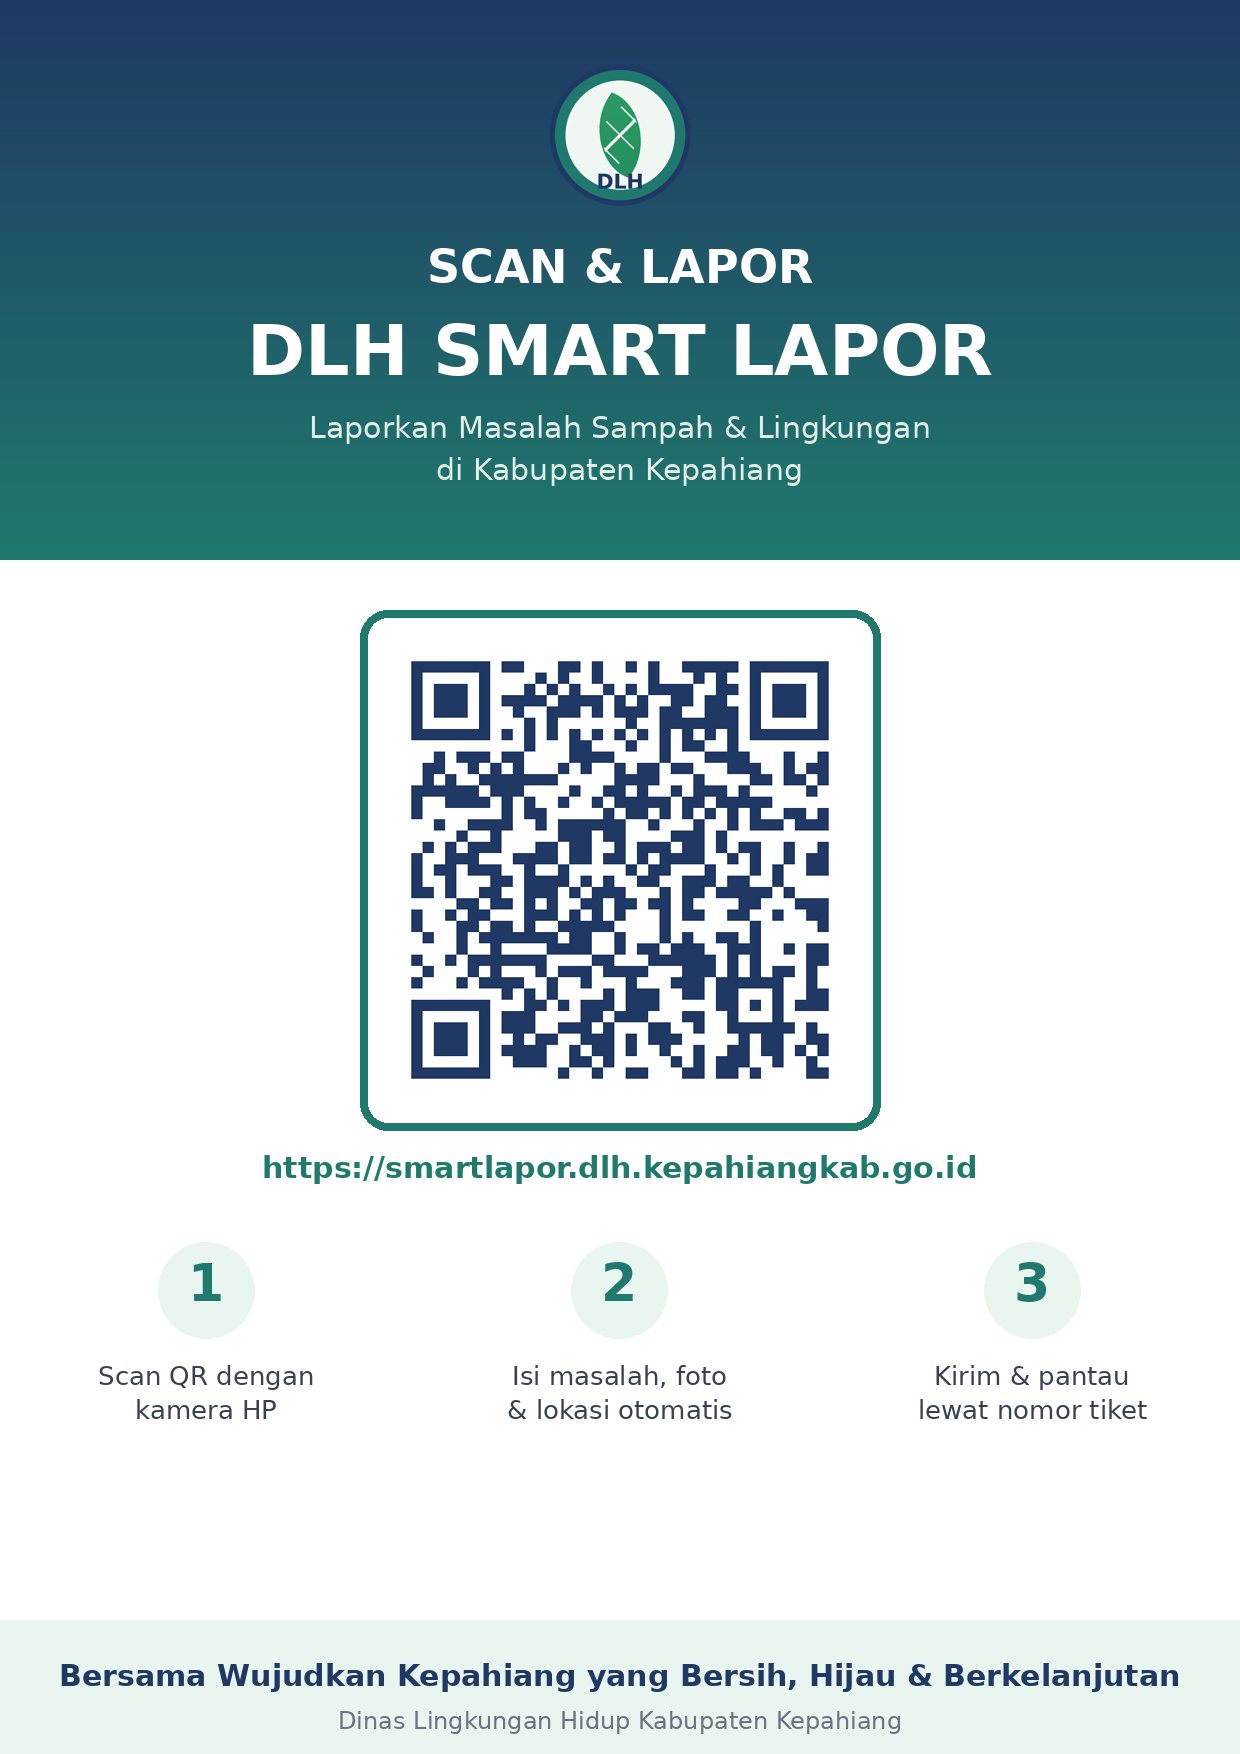
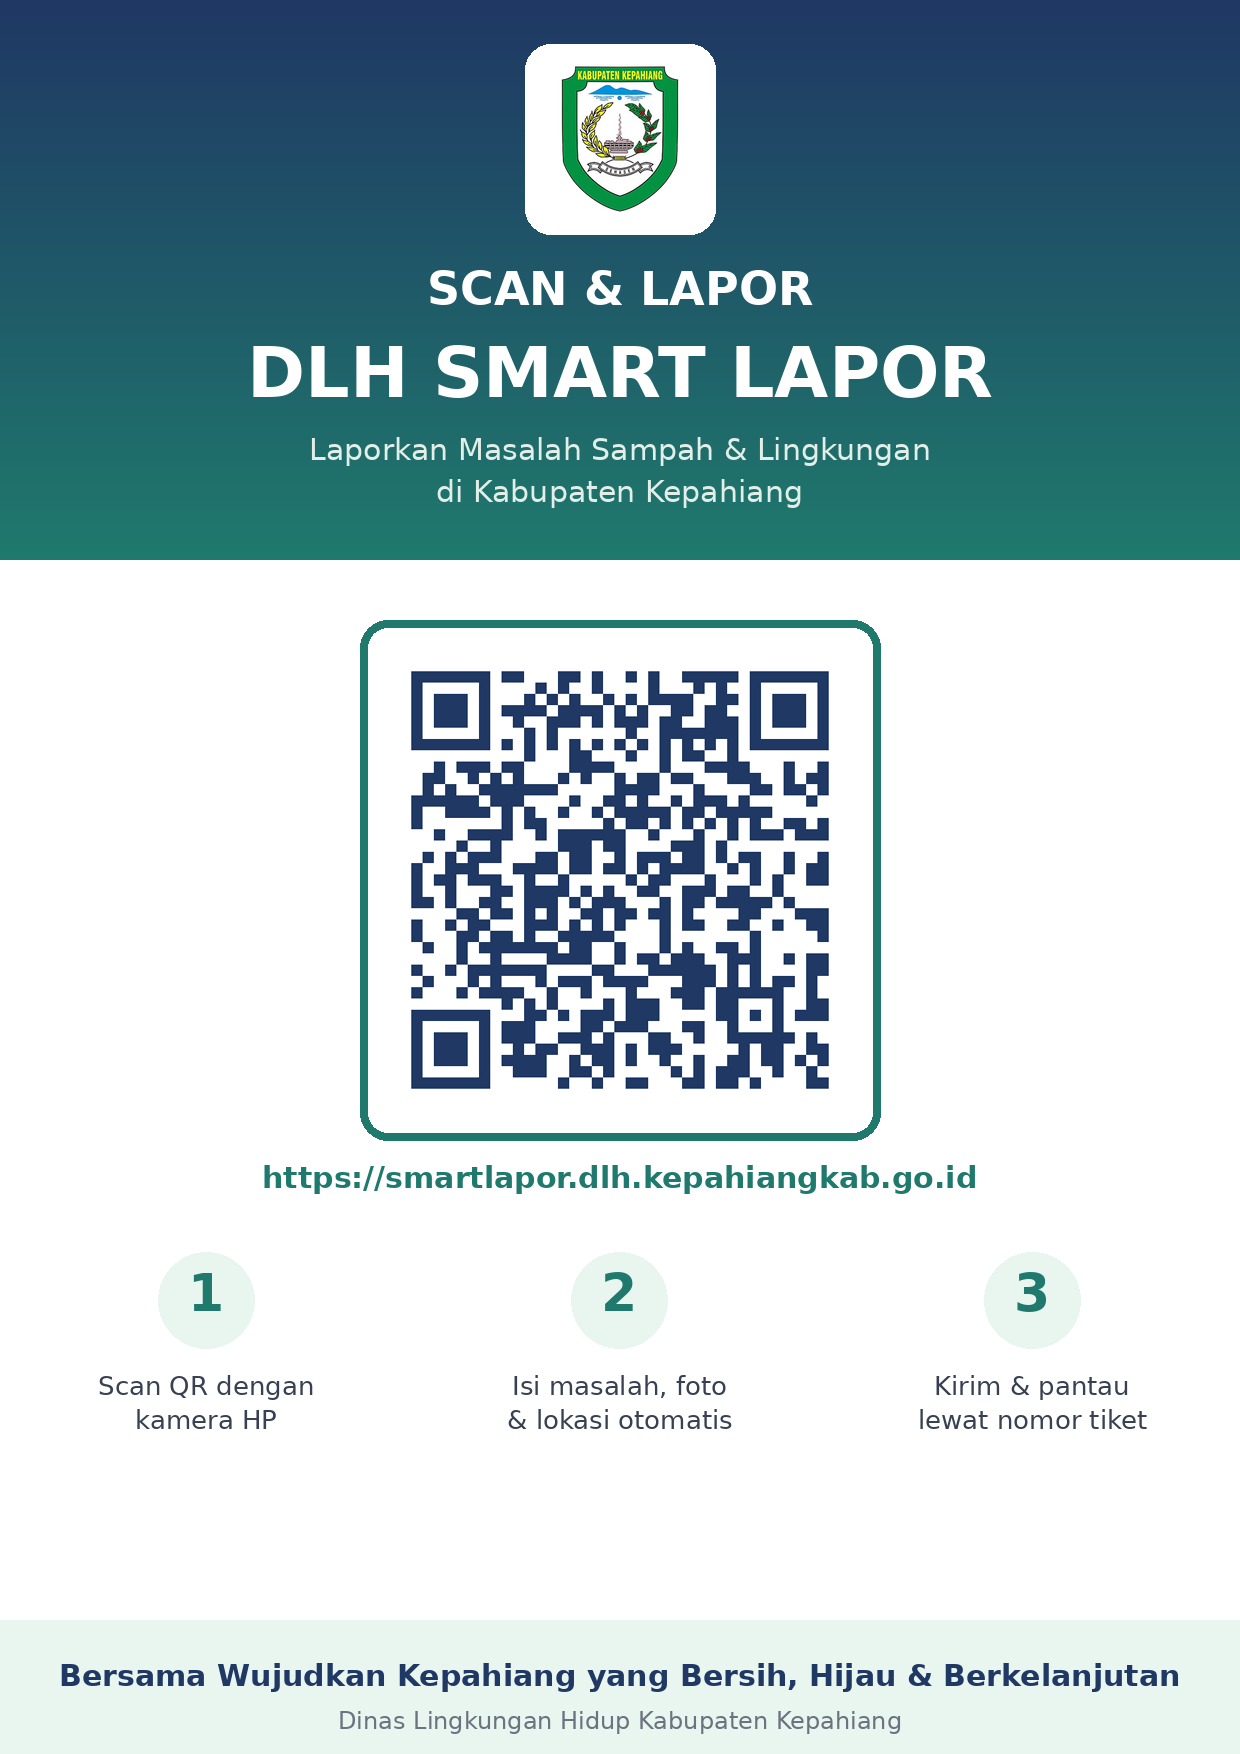
Add files via upload

diff --git a/app.js b/app.js
@@ -44,8 +44,13 @@ document.addEventListener("DOMContentLoaded", async () => {
   $("#modalBg").addEventListener("click", (e) => { if (e.target.id === "modalBg") closeModal(); });
 
   // load kategori
-  try { state.kategori = await DB.getKategori(true); } catch (e) { console.error(e); }
+  let katErr = null;
+  try { state.kategori = await DB.getKategori(true); } catch (e) { console.error(e); katErr = e; }
   fillKategoriSelect();
+  if (!CONFIG.IS_DEMO && (katErr || state.kategori.length === 0)) {
+    $("#f_kategori").innerHTML = '<option value="">⚠ Database belum siap — jalankan supabase-schema.sql</option>';
+    setTimeout(() => toast("Database Supabase belum siap. Jalankan file supabase-schema.sql di SQL Editor dulu.", "err"), 600);
+  }
 
   // restore session
   state.user = DB.getUser();

diff --git a/config.js b/config.js
@@ -13,8 +13,8 @@
 
 const CONFIG = {
   // --- Isi dua baris ini untuk MODE PRODUKSI (Supabase) ---
-  SUPABASE_URL: "https://zuoxkzvenesetorghsqf.supabase.co",        // contoh: "https://xxxxxxxx.supabase.co"
-  SUPABASE_ANON_KEY: "eyJhbGciOiJIUzI1NiIsInR5cCI6IkpXVCJ9.eyJpc3MiOiJzdXBhYmFzZSIsInJlZiI6Inp1b3hrenZlbmVzZXRvcmdoc3FmIiwicm9sZSI6ImFub24iLCJpYXQiOjE3ODMxNTEzNTUsImV4cCI6MjA5ODcyNzM1NX0.0vAx8mU_1a_97YwlhggaEeM5Ybxn3fKit5S9YXUgHic",   // contoh: "eyJhbGciOiJIUzI1NiIsInR5cCI6..."
+  SUPABASE_URL: "",        // contoh: "https://xxxxxxxx.supabase.co"
+  SUPABASE_ANON_KEY: "",   // contoh: "eyJhbGciOiJIUzI1NiIsInR5cCI6..."
 
   // --- Identitas aplikasi ---
   APP_NAME: "DLH Smart Lapor",

diff --git a/README.md b/README.md
@@ -1,0 +1,130 @@
+# DLH Smart Lapor 🌿
+
+Aplikasi pelaporan & monitoring persampahan dan lingkungan hidup **Dinas Lingkungan Hidup Kabupaten Kepahiang**.
+
+Warga melapor (foto + lokasi GPS otomatis) → petugas menindaklanjuti → pimpinan memantau lewat dashboard. Ringan, mobile-friendly, dan berbiaya rendah (GitHub Pages + Supabase).
+
+---
+
+## Isi Paket
+
+| File | Fungsi |
+|------|--------|
+| `index.html` | Tampilan & struktur aplikasi |
+| `app.js` | Logika aplikasi (form, cek status, dashboard, admin) |
+| `db.js` | Lapisan data — otomatis pilih Supabase / mode demo |
+| `config.js` | **Konfigurasi** (isi kredensial Supabase di sini) |
+| `supabase-schema.sql` | Skema database untuk dijalankan di Supabase |
+| `logo.png` / `logo_small.png` | Logo di header & favicon (lihat catatan di bawah) |
+| `qr.html` | Generator QR + poster sosialisasi siap cetak |
+| `Poster_Sosialisasi_SmartLapor.png` | Poster jadi (contoh URL) siap cetak |
+| `QR_SmartLapor.png` | Gambar QR polos |
+| `README.md` | Panduan ini |
+
+---
+
+## A. Coba Cepat (Mode Demo — tanpa setup)
+
+Aplikasi sudah bisa langsung dicoba **tanpa Supabase**. Data disimpan sementara di browser.
+
+1. Buka `index.html` (klik dua kali, atau via Live Server).
+2. Coba semua fitur: buat laporan, cek status, dashboard, dan login admin.
+
+**Akun demo:**
+- Admin — `admin@dlh.go.id` / `admin123`
+- Petugas — `petugas@dlh.go.id` / `petugas123`
+- Pimpinan — `pimpinan@dlh.go.id` / `pimpinan123`
+
+> Catatan: mode demo memakai penyimpanan lokal browser. Data belum permanen/online — itu tugas Supabase di bawah.
+
+---
+
+## B. Menghubungkan ke Supabase (Mode Produksi)
+
+1. Buat akun di **https://supabase.com** → **New project** (catat *database password*).
+2. Isi `config.js` dengan **Project URL** & **anon key** (Project Settings → API). ✅ *(sudah dilakukan)*
+3. **PENTING — jalankan skema:** Buka menu **SQL Editor → New query** → tempel **seluruh isi**
+   `supabase-schema.sql` → **Run**. Ini membuat semua tabel, kategori (dropdown Jenis
+   Permasalahan), keamanan RLS, bucket foto, dan trigger auto-profil.
+   > Selama langkah ini belum dilakukan, dropdown kosong & login belum bisa — itu wajar.
+4. **Buat akun login:** **Authentication → Users → "Add user"** → isi Email & Password →
+   **centang "Auto Confirm User"** → Create.
+5. **Jadikan admin:** kembali ke **SQL Editor**, jalankan (ganti email sesuai yang tadi dibuat):
+   ```sql
+   update public.profiles set peran = 'admin', nama = 'Admin DLH'
+   where id = (select id from auth.users where email = 'admin@dlhkepahiang.go.id');
+   ```
+6. Muat ulang aplikasi (badge kanan atas: **TERHUBUNG SUPABASE**) → menu **Petugas / Admin** →
+   login pakai email & password dari Langkah 4. Selesai! 🎉
+
+> **Catatan:** akun demo (`admin@dlh.go.id` dll) **hanya berlaku di Mode Demo**. Di Mode
+> Supabase Anda memakai akun asli yang dibuat pada Langkah 4–5 di atas.
+
+---
+
+## C. Deploy ke GitHub Pages (gratis)
+
+1. Buat akun **https://github.com** → **New repository** (mis. `smart-lapor`), set **Public**.
+2. Upload semua file (`index.html`, `app.js`, `db.js`, `config.js`, dll) — tombol **Add file → Upload files → Commit**.
+3. Buka **Settings → Pages** → *Source:* **Deploy from a branch** → *Branch:* `main` / `/root` → **Save**.
+4. Tunggu 1–2 menit. Situs tayang di:
+   `https://<username>.github.io/smart-lapor/`
+
+> Karena `config.js` memakai **anon key** (kunci publik yang memang aman diekspos) dan
+> data dilindungi oleh **RLS** di Supabase, aman untuk repository publik.
+> Jangan pernah menaruh *service_role key* di sini.
+
+---
+
+## D. Sub-domain Resmi (via Kominfo)
+
+Setelah aplikasi berjalan & clear, ajukan sub-domain resmi ke Dinas Kominfo, misalnya:
+
+```
+smartlapor.dlh.kepahiangkab.go.id
+```
+
+Kominfo mengarahkan sub-domain tersebut ke GitHub Pages melalui **CNAME record** ke
+`<username>.github.io`. Tambahkan pula sub-domain itu pada **Settings → Pages → Custom domain**.
+
+---
+
+## Fitur
+
+**Untuk Masyarakat**
+- Formulir laporan: kategori, deskripsi, **foto**, dan **lokasi GPS otomatis** + peta interaktif
+- Nomor tiket unik & **cek status** berikut riwayat penanganan (timeline)
+
+**Untuk Petugas / Admin**
+- Login berjenjang (admin / petugas / pimpinan)
+- Daftar laporan dengan **filter** (status, kategori, kata kunci)
+- **Perbarui status** + catatan + foto bukti; tautan navigasi Google Maps
+- **Kelola kategori** (admin) & **ekspor CSV**
+
+**Dashboard Monitoring**
+- Kartu ringkasan (total, baru, diproses, selesai, rata-rata waktu penyelesaian)
+- Grafik per kategori & tren bulanan
+- **Peta sebaran** laporan berwarna sesuai status
+
+---
+
+## E. Logo & QR Sosialisasi
+
+**Logo.** Header memakai `logo.png` (badge daun sementara). Untuk memakai **lambang resmi
+Kabupaten Kepahiang**, cukup ganti file `logo.png` (disarankan persegi, latar transparan)
+tanpa mengubah kode apa pun.
+
+**QR & Poster.** Buka `qr.html`, masukkan **alamat final aplikasi** (URL GitHub Pages atau
+sub-domain Kominfo), lalu:
+- **Unduh QR (PNG)** untuk ditempel di dokumen/spanduk, atau
+- **Cetak / Simpan Poster PDF** (poster A4 lengkap, siap tempel di kantor kelurahan, taman, pasar).
+
+> File `Poster_Sosialisasi_SmartLapor.png` & `QR_SmartLapor.png` yang disertakan masih memakai
+> URL contoh `smartlapor.dlh.kepahiangkab.go.id`. **Perbarui lewat `qr.html`** setelah alamat final aktif.
+
+---
+
+## Teknologi
+HTML/CSS/JS · Leaflet + OpenStreetMap (peta) · Chart.js (grafik) · Supabase (database, auth, storage) · GitHub Pages (hosting).
+
+*Dikembangkan untuk mendukung Revitalisasi Taman Santoso & pengelolaan sampah mandiri Kabupaten Kepahiang.*
